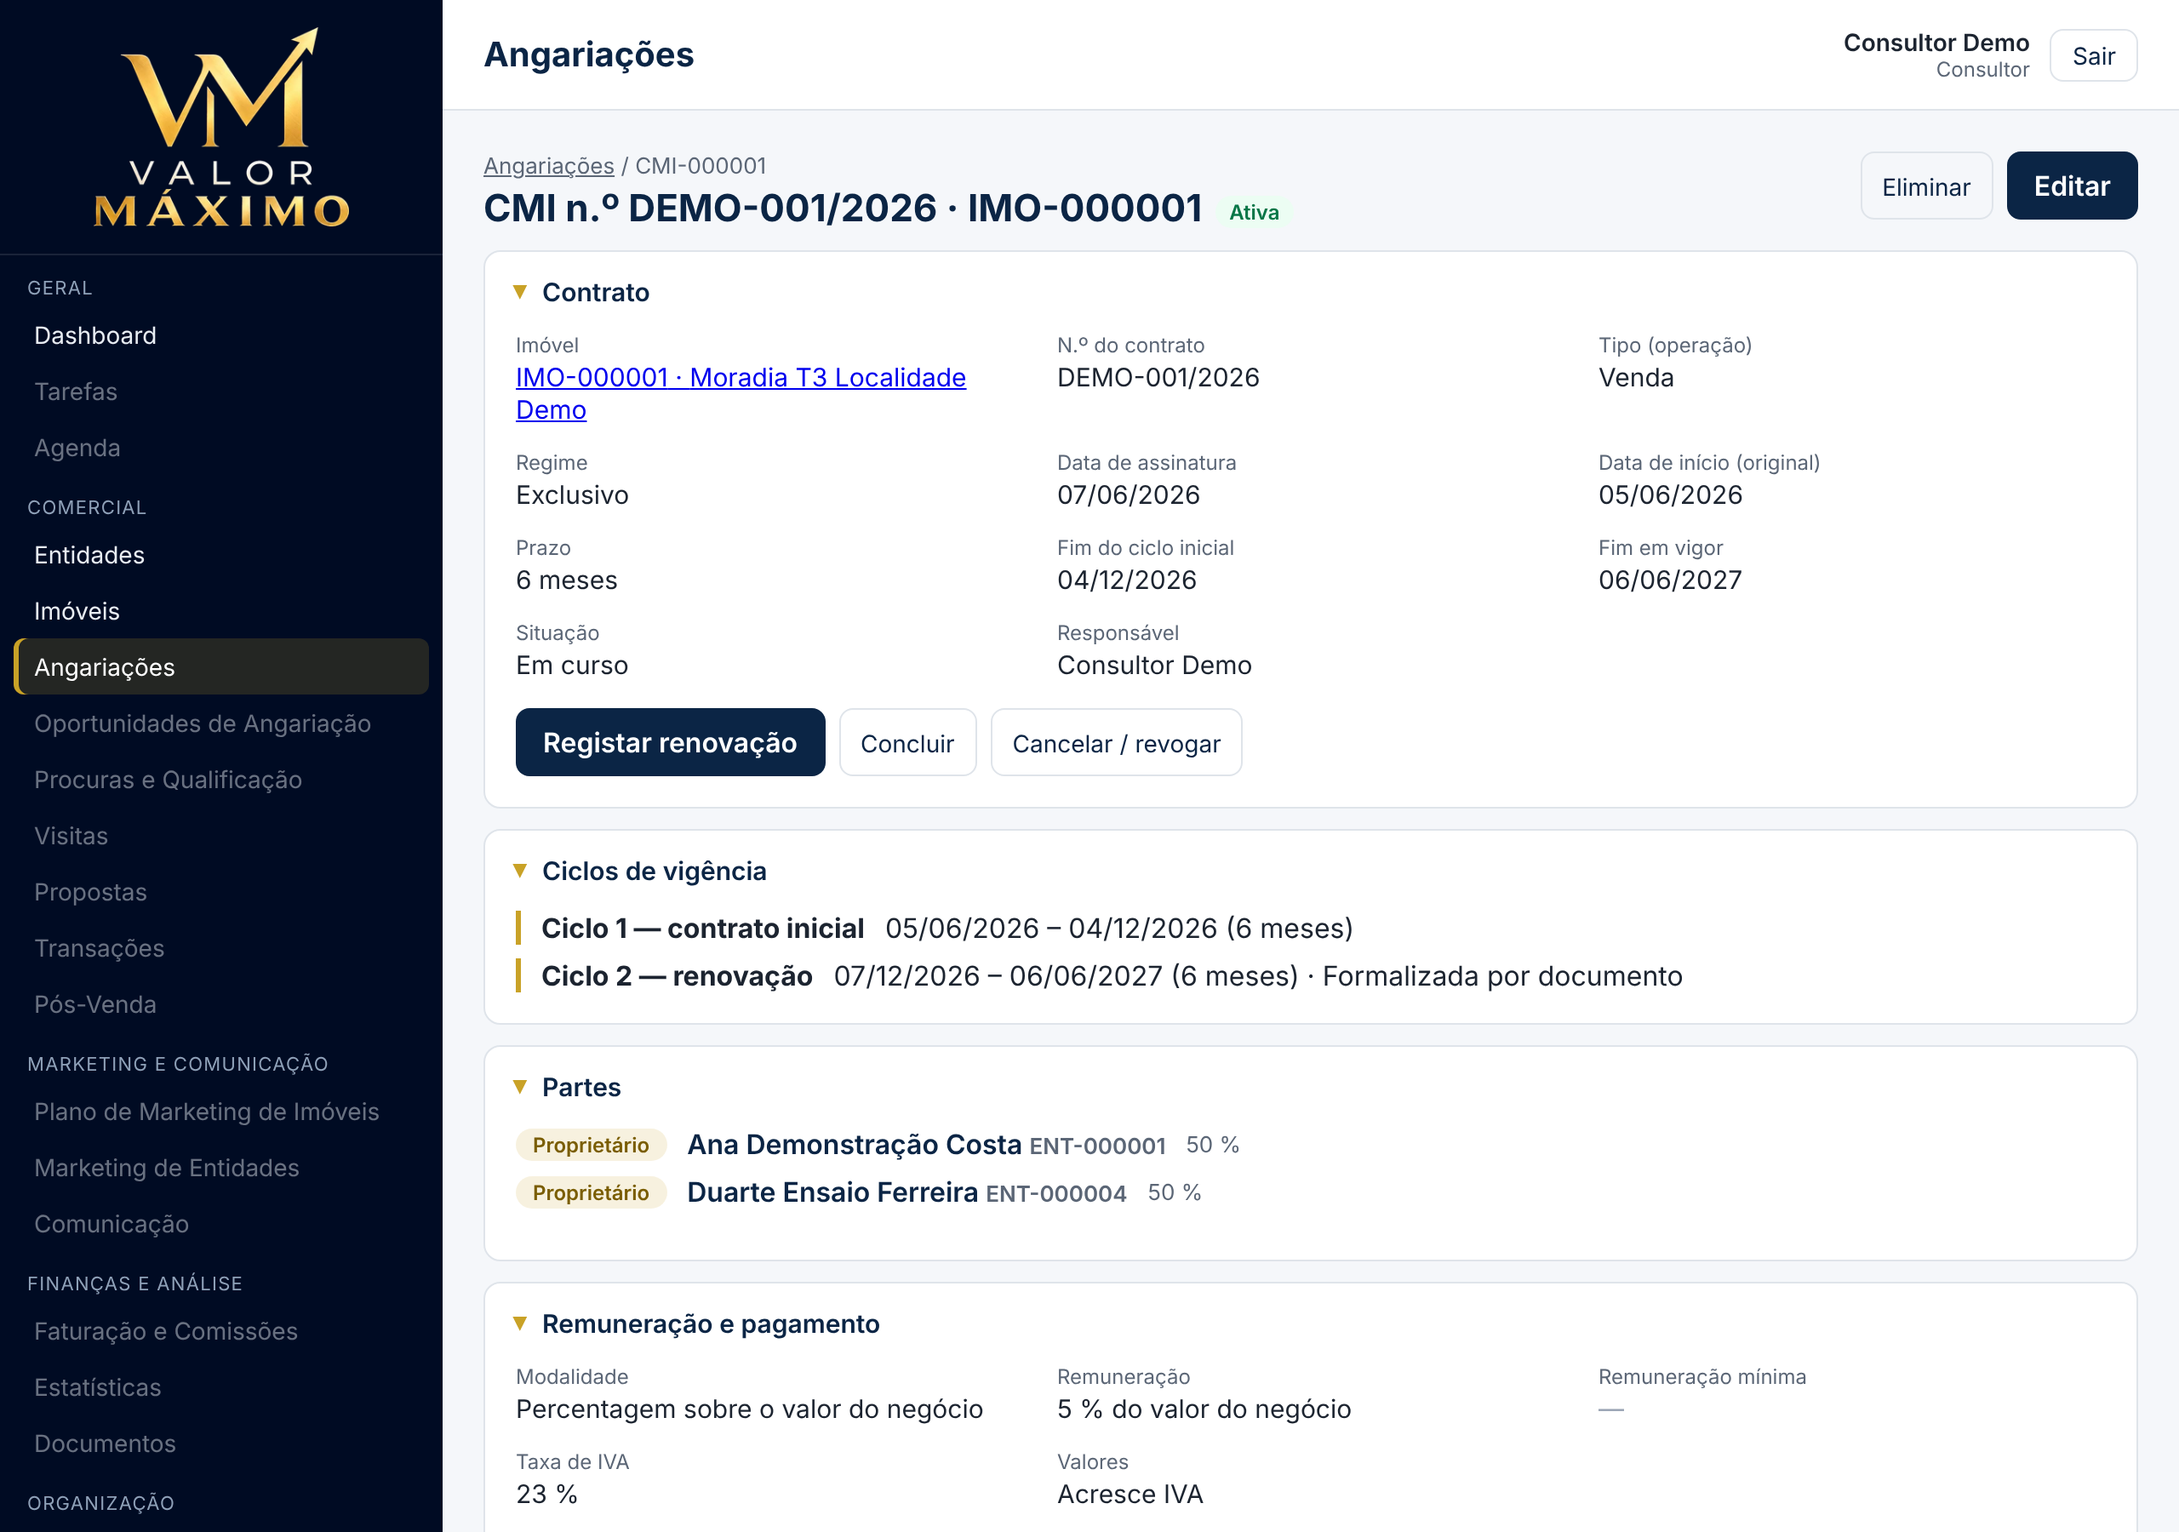
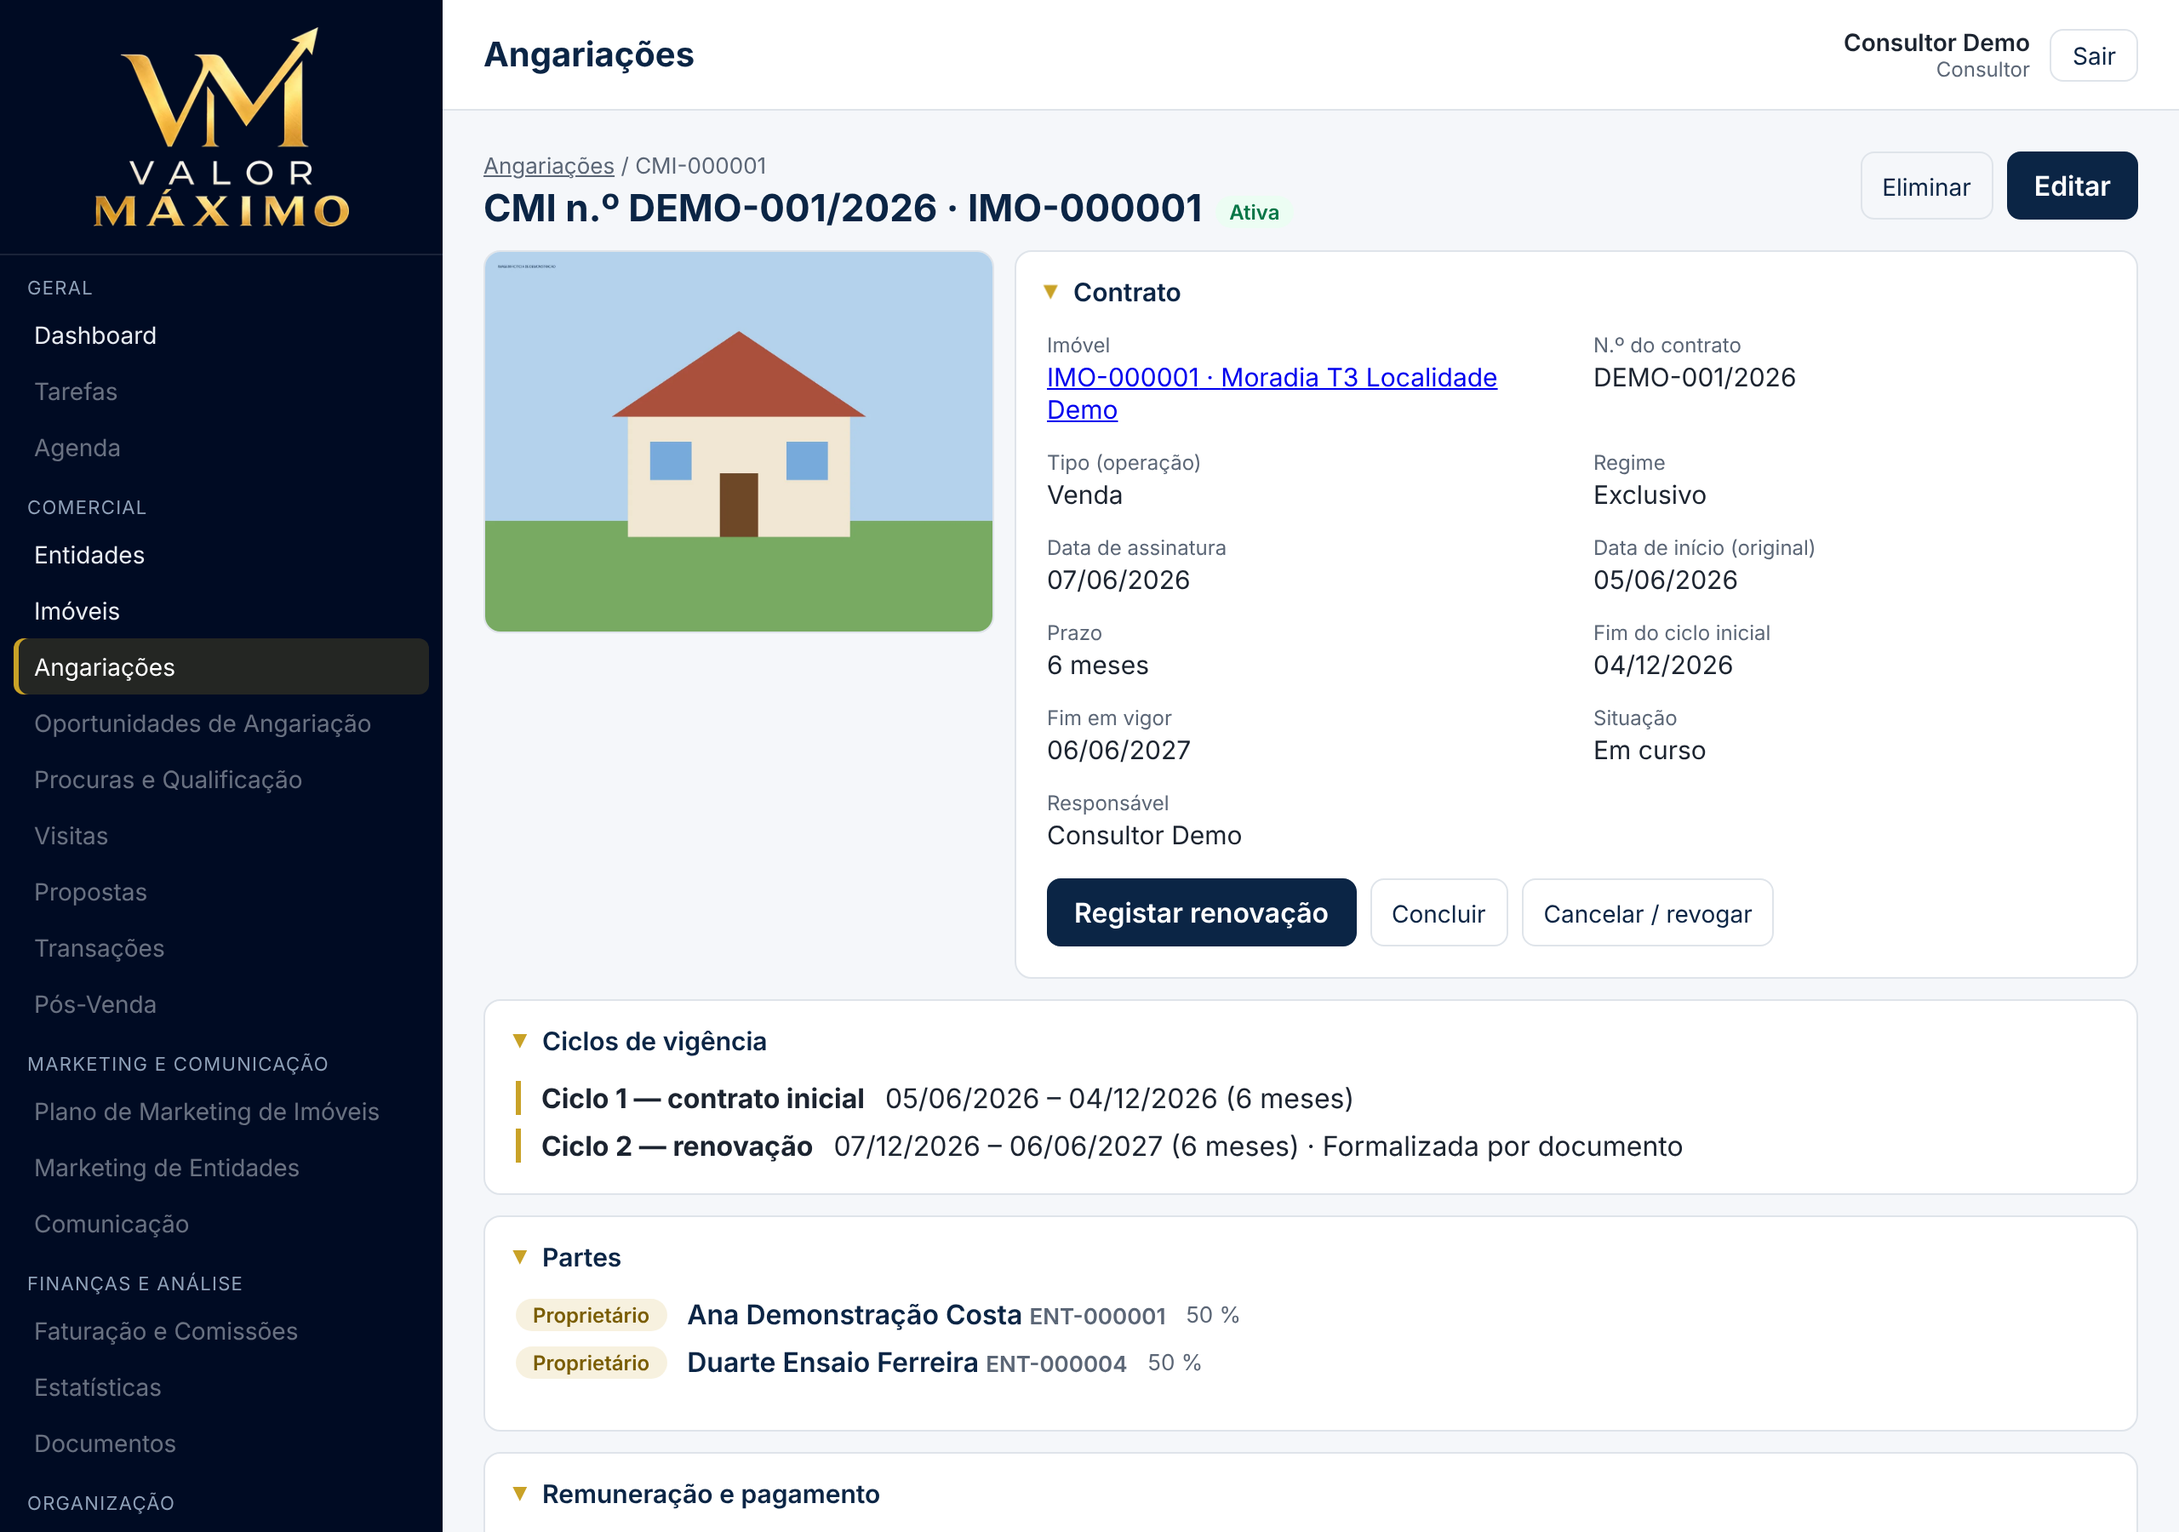
Angariações: fotografia do imóvel na lista e na ficha
Claude-Session: https://claude.ai/code/session_01EELGHjtHe4YCwXPBmWvHjs

diff --git a/frontend/src/modulos/angariacoes/AngariacaoConsulta.tsx b/frontend/src/modulos/angariacoes/AngariacaoConsulta.tsx
@@ -10,6 +10,7 @@ import { CabecalhoRegisto, HistoricoRegisto } from '../../componentes/Ficha'
 import { dataPt, formatarEuros, formatarPercentagem, momentoPt } from '../../componentes/formatar'
 import { LigacoesExternas } from '../../componentes/LigacoesExternas'
 import { useSessao } from '../../app/sessao'
+import { urlFotografia } from '../imoveis/api'
 import { cmiApi, ETIQUETA_ESTADO, NOMES_CAMPOS_CMI, textoAlerta, type Angariacao } from './api'
 
 function remuneracao(a: Angariacao): string | null {
@@ -116,55 +117,71 @@ export function AngariacaoConsulta() {
         </p>
       )}
 
-      <Bloco titulo="Contrato">
-        <dl className="grelha-dados">
-          <Dado rotulo="Imóvel">
-            <Link to={`/imoveis/${a.imovel}`}>
-              {a.imovel_referencia} · {a.imovel_descricao}
-            </Link>
-          </Dado>
-          <Dado rotulo="N.º do contrato">{a.numero_contrato}</Dado>
-          <Dado rotulo="Tipo (operação)">{a.nomes.operacao}</Dado>
-          <Dado rotulo="Regime">{a.nomes.regime}</Dado>
-          <Dado rotulo="Data de assinatura">{dataPt(a.data_assinatura)}</Dado>
-          <Dado rotulo="Data de início (original)">{dataPt(a.data_inicio)}</Dado>
-          <Dado rotulo="Prazo">{a.prazo_meses && `${a.prazo_meses} meses`}</Dado>
-          <Dado rotulo="Fim do ciclo inicial">{dataPt(a.data_fim)}</Dado>
-          <Dado rotulo="Fim em vigor">{dataPt(a.data_fim_vigente)}</Dado>
-          <Dado rotulo="Situação">
-            {a.nomes.situacao}
-            {a.situacao_motivo && <small className="ajuda"> — {a.situacao_motivo}</small>}
-          </Dado>
-          <Dado rotulo="Responsável">{a.responsavel_nome}</Dado>
-        </dl>
-        <div className="acoes-bloco">
-          {a.acoes.editar && a.assinado && emCurso && (
-            <button className="botao-principal" onClick={() => setDialogo('renovar')}>
-              Registar renovação
-            </button>
+      <div className="ficha-topo">
+        <Link
+          to={`/imoveis/${a.imovel}`}
+          className="fotografia-imovel"
+          aria-label={`Abrir imóvel ${a.imovel_referencia}`}
+        >
+          {a.imovel_fotografia ? (
+            <img
+              src={urlFotografia(a.imovel_fotografia.imovel, a.imovel_fotografia.versao)}
+              alt={`Fotografia do imóvel ${a.imovel_referencia}`}
+            />
+          ) : (
+            <div className="fotografia-vazia">Imóvel sem fotografia</div>
           )}
-          {a.acoes.editar && emCurso && (
-            <>
-              <button className="botao-secundario" onClick={() => setDialogo('concluir')}>
-                Concluir
+        </Link>
+        <Bloco titulo="Contrato">
+          <dl className="grelha-dados">
+            <Dado rotulo="Imóvel">
+              <Link to={`/imoveis/${a.imovel}`}>
+                {a.imovel_referencia} · {a.imovel_descricao}
+              </Link>
+            </Dado>
+            <Dado rotulo="N.º do contrato">{a.numero_contrato}</Dado>
+            <Dado rotulo="Tipo (operação)">{a.nomes.operacao}</Dado>
+            <Dado rotulo="Regime">{a.nomes.regime}</Dado>
+            <Dado rotulo="Data de assinatura">{dataPt(a.data_assinatura)}</Dado>
+            <Dado rotulo="Data de início (original)">{dataPt(a.data_inicio)}</Dado>
+            <Dado rotulo="Prazo">{a.prazo_meses && `${a.prazo_meses} meses`}</Dado>
+            <Dado rotulo="Fim do ciclo inicial">{dataPt(a.data_fim)}</Dado>
+            <Dado rotulo="Fim em vigor">{dataPt(a.data_fim_vigente)}</Dado>
+            <Dado rotulo="Situação">
+              {a.nomes.situacao}
+              {a.situacao_motivo && <small className="ajuda"> — {a.situacao_motivo}</small>}
+            </Dado>
+            <Dado rotulo="Responsável">{a.responsavel_nome}</Dado>
+          </dl>
+          <div className="acoes-bloco">
+            {a.acoes.editar && a.assinado && emCurso && (
+              <button className="botao-principal" onClick={() => setDialogo('renovar')}>
+                Registar renovação
               </button>
-              <button className="botao-secundario" onClick={() => setDialogo('cancelar')}>
-                Cancelar / revogar
+            )}
+            {a.acoes.editar && emCurso && (
+              <>
+                <button className="botao-secundario" onClick={() => setDialogo('concluir')}>
+                  Concluir
+                </button>
+                <button className="botao-secundario" onClick={() => setDialogo('cancelar')}>
+                  Cancelar / revogar
+                </button>
+              </>
+            )}
+            {podeAprovar && !emCurso && (
+              <button className="botao-secundario" onClick={() => setDialogo('reabrir')}>
+                Reabrir
               </button>
-            </>
-          )}
-          {podeAprovar && !emCurso && (
-            <button className="botao-secundario" onClick={() => setDialogo('reabrir')}>
-              Reabrir
-            </button>
-          )}
-          {podeAprovar && a.assinado && (
-            <button className="botao-secundario" onClick={() => setDialogo('corrigir')}>
-              Correção excecional
-            </button>
-          )}
-        </div>
-      </Bloco>
+            )}
+            {podeAprovar && a.assinado && (
+              <button className="botao-secundario" onClick={() => setDialogo('corrigir')}>
+                Correção excecional
+              </button>
+            )}
+          </div>
+        </Bloco>
+      </div>
 
       <Bloco titulo="Ciclos de vigência">
         {!a.assinado ? (

diff --git a/frontend/src/modulos/angariacoes/angariacoes.test.tsx b/frontend/src/modulos/angariacoes/angariacoes.test.tsx
@@ -42,6 +42,7 @@ const CMI = {
   imovel: 5,
   imovel_referencia: 'IMO-000005',
   imovel_descricao: 'Apartamento T2 Ensaio',
+  imovel_fotografia: { imovel: 5, versao: 9 },
   operacao: 40,
   regime: 70,
   data_assinatura: '2026-06-01',
@@ -113,6 +114,46 @@ describe('Angariações', () => {
     expect(await screen.findByText('Termina dentro de 16 dias')).toBeInTheDocument()
     expect(screen.getByText('Ciclo 1 — contrato inicial')).toBeInTheDocument()
     expect(screen.getByText(/5 % do valor do negócio/)).toBeInTheDocument()
+    expect(screen.getByAltText('Fotografia do imóvel IMO-000005')).toHaveAttribute(
+      'src',
+      '/api/imoveis/5/fotografia/?v=9',
+    )
+  })
+
+  it('lista mostra a miniatura da fotografia do imóvel', async () => {
+    simularApi({
+      ...base,
+      'GET /api/angariacoes/': () =>
+        json({
+          count: 1,
+          results: [
+            {
+              id: 3,
+              referencia: 'CMI-000003',
+              numero_contrato: '',
+              imovel: 5,
+              imovel_referencia: 'IMO-000005',
+              imovel_descricao: 'Apartamento T2',
+              imovel_fotografia: { imovel: 5, versao: 9 },
+              operacao_nome: 'Venda',
+              regime_nome: 'Exclusivo',
+              data_inicio: null,
+              data_fim_vigente: null,
+              estado: 'por_assinar',
+              estado_nome: 'Por assinar',
+              alerta: null,
+              partes: [],
+              responsavel_nome: 'Consultor Demo',
+            },
+          ],
+        }),
+    })
+    const { container } = desenhar('/angariacoes')
+    await screen.findByText('IMO-000005')
+    expect(container.querySelector('.celula-miniatura img')).toHaveAttribute(
+      'src',
+      '/api/imoveis/5/fotografia/?tamanho=miniatura&v=9',
+    )
   })
 
   it('renovação propõe o dia seguinte ao fim e envia o pedido', async () => {

diff --git a/frontend/src/modulos/angariacoes/AngariacoesLista.tsx b/frontend/src/modulos/angariacoes/AngariacoesLista.tsx
@@ -4,6 +4,7 @@ import { Link, useNavigate, useSearchParams } from 'react-router-dom'
 
 import { dataPt } from '../../componentes/formatar'
 import { Paginacao } from '../../componentes/Paginacao'
+import { urlFotografia } from '../imoveis/api'
 import { cmiApi, ETIQUETA_ESTADO, textoAlerta } from './api'
 
 const FILTROS: [string, string][] = [
@@ -94,6 +95,7 @@ export function AngariacoesLista() {
         <table className="tabela">
           <thead>
             <tr>
+              <th aria-label="Fotografia do imóvel" />
               <th>Referência</th>
               <th>Imóvel</th>
               <th>Partes</th>
@@ -105,6 +107,18 @@ export function AngariacoesLista() {
           <tbody>
             {lista.data.results.map((a) => (
               <tr key={a.id} onClick={() => navegar(`/angariacoes/${a.id}`)}>
+                <td className="celula-miniatura">
+                  {a.imovel_fotografia ? (
+                    <img
+                      src={urlFotografia(a.imovel_fotografia.imovel, a.imovel_fotografia.versao, true)}
+                      alt=""
+                      loading="lazy"
+                      onError={(e) => (e.currentTarget.style.visibility = 'hidden')}
+                    />
+                  ) : (
+                    <span className="miniatura-vazia" aria-hidden="true" />
+                  )}
+                </td>
                 <td data-rotulo="Referência">
                   <Link to={`/angariacoes/${a.id}`} onClick={(e) => e.stopPropagation()}>
                     {a.referencia}

diff --git a/frontend/src/modulos/angariacoes/api.ts b/frontend/src/modulos/angariacoes/api.ts
@@ -11,6 +11,12 @@ export interface Alerta {
   limiar: number
 }
 
+/** Referência à fotografia principal do imóvel (servida pela API dos imóveis). */
+export interface FotografiaImovelRef {
+  imovel: number
+  versao: number
+}
+
 export interface Renovacao {
   id: number
   ciclo: number
@@ -41,6 +47,7 @@ export interface Angariacao {
   imovel: number
   imovel_referencia: string
   imovel_descricao: string
+  imovel_fotografia: FotografiaImovelRef | null
   operacao: number | null
   regime: number | null
   data_assinatura: string | null
@@ -96,6 +103,7 @@ export interface AngariacaoResumo {
   imovel: number
   imovel_referencia: string
   imovel_descricao: string
+  imovel_fotografia: FotografiaImovelRef | null
   operacao_nome: string | null
   regime_nome: string | null
   data_inicio: string | null

diff --git a/backend/apps/angariacoes/serializers.py b/backend/apps/angariacoes/serializers.py
@@ -43,6 +43,9 @@ class RenovacaoSerializer(serializers.ModelSerializer):
 class AngariacaoListaSerializer(serializers.ModelSerializer):
     imovel_referencia = serializers.CharField(source="imovel.referencia", read_only=True)
     imovel_descricao = serializers.SerializerMethodField()
+    # Fotografia principal do imóvel (miniatura). A imagem é servida pela API dos imóveis,
+    # que verifica o acesso ao imóvel.
+    imovel_fotografia = serializers.SerializerMethodField()
     operacao_nome = serializers.SerializerMethodField()
     regime_nome = serializers.SerializerMethodField()
     estado = serializers.SerializerMethodField()
@@ -56,8 +59,12 @@ class AngariacaoListaSerializer(serializers.ModelSerializer):
         fields = [
             "id", "referencia", "numero_contrato", "imovel", "imovel_referencia", "imovel_descricao",
             "operacao_nome", "regime_nome", "data_inicio", "data_fim_vigente", "estado", "estado_nome", "alerta",
-            "partes", "responsavel_nome",
+            "partes", "responsavel_nome", "imovel_fotografia",
         ]  # fmt: skip
+
+    def get_imovel_fotografia(self, o) -> dict | None:
+        i = o.imovel
+        return {"imovel": i.pk, "versao": i.versao} if i.fotografia else None
 
     def get_imovel_descricao(self, o) -> str:
         i = o.imovel
@@ -105,7 +112,7 @@ class AngariacaoSerializer(AngariacaoListaSerializer):
             "situacao", "situacao_motivo", "estado", "estado_nome", "alerta", "assinado",
             "modalidade_remuneracao", "valor_remuneracao", "base_contratual", "valor_minimo_remuneracao",
             "taxa_iva", "remuneracao_inclui_iva", "condicoes_pagamento",
-            "intervenientes", "intervenientes_detalhe", "renovacoes", "correcoes",
+            "intervenientes", "intervenientes_detalhe", "renovacoes", "correcoes", "imovel_fotografia",
             "responsavel", "responsavel_nome", "observacoes", "nomes",
             "criado_em", "atualizado_em", "versao", "eliminado_em", "acoes",
         ]  # fmt: skip

diff --git a/backend/apps/angariacoes/tests/test_api.py b/backend/apps/angariacoes/tests/test_api.py
@@ -306,3 +306,12 @@ class TestPermissoesESituacao:
             .status_code
             == 200
         )
+
+
+def test_fotografia_do_imovel_na_lista_e_na_ficha(api, pessoas, imovel):
+    c = criar(api, pessoas.cons, imovel)
+    assert c["imovel_fotografia"] is None
+    Imovel.objects.filter(pk=imovel.pk).update(fotografia="imoveis/x/foto.webp")
+    lista = como(api, pessoas.cons).get(LISTA).json()["results"][0]
+    assert lista["imovel_fotografia"] == {"imovel": imovel.pk, "versao": imovel.versao}
+    assert como(api, pessoas.cons).get(detalhe(c["id"])).json()["imovel_fotografia"]["imovel"] == imovel.pk

diff --git a/documentacao/manual/05-angariacoes.md b/documentacao/manual/05-angariacoes.md
@@ -17,7 +17,7 @@ Abra **Angariações** no menu. Use os separadores para filtrar:
 
 ![Lista de angariações](imagens/35-cmi-lista.png)
 
-Pode pesquisar pela referência, n.º de contrato, imóvel, localidade ou nome de uma das partes, e ordenar pela
+Cada linha mostra a miniatura da fotografia principal do imóvel. Pode pesquisar pela referência, n.º de contrato, imóvel, localidade ou nome de uma das partes, e ordenar pela
 data de fim mais próxima.
 
 ## 5.2 Criar uma angariação
@@ -55,6 +55,7 @@ com a referência do outro contrato. Contratos não exclusivos podem coexistir.
 
 ![Ficha da angariação](imagens/31-cmi-consulta.png)
 
+- **Fotografia do imóvel:** aparece ao lado dos dados do contrato; clique nela para abrir a ficha do imóvel.
 - **Avisos de expiração:** quando faltam 120, 60 ou 30 dias (valores configuráveis) para o fim, aparece um aviso
   vermelho no topo da ficha e na lista.
 - **Ciclos de vigência:** o contrato inicial (ciclo 1) e cada renovação (ciclo 2, 3, …).
